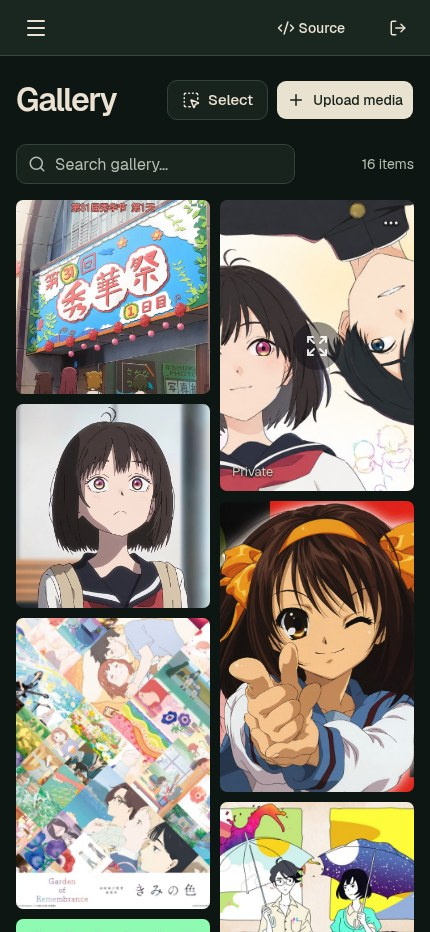
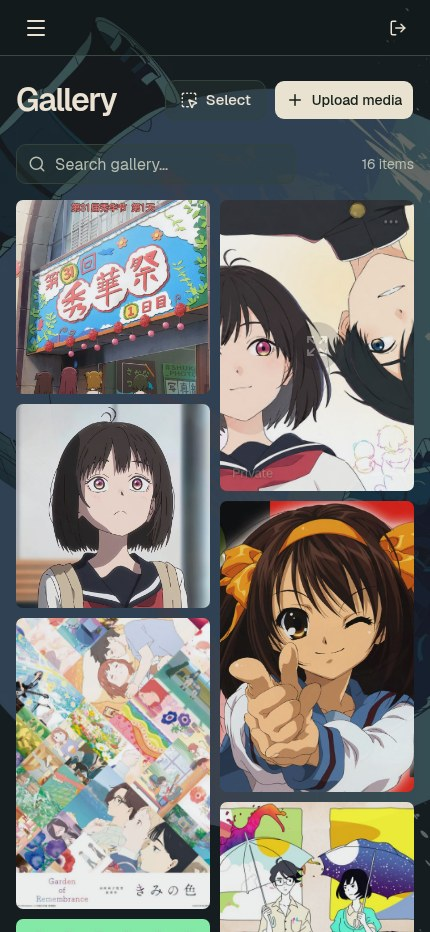
docs: focus on everyday features and measured memory usage

diff --git a/README.md b/README.md
@@ -1,65 +1,52 @@
 # Mori
 
-**A rich media library. A surprisingly small stack.**
+**Your media, beautifully organized. Surprisingly light on memory.**
 
-Mori is a lightweight, self-hosted home for images and videos. A Rust backend, a static SvelteKit interface, SQLite metadata, and your own Amazon S3 bucket—all behind one container.
+Mori gives your images and videos a home of their own. Browse your collection, organize it into albums, and share exactly what you choose—all through a clean, personal gallery.
 
-[Live site](https://media.laplacian.net) · [Container image](https://github.com/orgs/Cubeyond/packages/container/package/mori) · [AGPL-3.0-or-later](LICENSE)
+[Live site](https://media.laplacian.net) · [Get started](#deploy) · [License](LICENSE)
 
-![Mori Gallery: images and videos together in a compact masonry layout](assets/screenshots/gallery.jpg)
+![Mori Gallery with a custom background and a flowing image and video layout](assets/screenshots/gallery.jpg)
 
-## Made for your media
+## Features
 
-- **Images and videos, together.** A compact, responsive masonry gallery with search, quiet hover controls, and full-size previews that preserve the original aspect ratio.
-- **Share on your own domain.** Copy a direct media link or a video's iframe code. Album members use `/<album-slug>/<random-name>.<ext>`; standalone media uses `/file/<random-name>.<ext>`.
-- **Public when you choose.** Albums and individual media have independent public/private settings. Visitors see shared content; the homepage never lists your library.
-- **A real upload queue.** Thumbnail previews, add/remove files before uploading, concurrent multipart uploads, pause, resume, and cancel. Media parts travel directly from your browser to S3.
-- **Less busywork.** Select multiple items to move into an album, remove from an album, delete, or create an album and move them together.
-- **Your own atmosphere.** The forest-green Mori theme, Catppuccin and Tokyo Night, accent colors, and browser-local background preferences.
+- **One gallery for everything.** Keep images and videos together, search your collection, and browse comfortably on a desktop or phone.
+- **Share in seconds.** Copy a link to an image, video, or album. Want a video on another website? Its ready-to-copy embed code is a click away.
+- **Privacy you control.** Keep media and albums private, or make them available to anyone with the link. Your homepage never exposes your collection.
+- **Uploads at your pace.** Preview your selection, add or remove files, upload several at once, and pause, resume, or cancel along the way.
+- **Less organizing, more enjoying.** Select several files to move them between albums, remove them from an album, or delete them together.
+- **Smaller uploads, your choice.** Choose Balanced, Higher quality, or Keep originals. Supported files can be optimized before uploading; when that would not help, Mori keeps the original.
+- **A look that feels yours.** Choose Mori, Catppuccin, or Tokyo Night colors, add your own background, and adjust how much it shows through the gallery.
+- **A small appetite for memory.** Our live library of 16 media files used about **7 MB of server memory while idle** and **28 MB while browsing and opening images** in a short check on November 6, 2026. Usage varies with activity.
 
-Upload optimization runs in your browser, with **Balanced**, **Higher quality**, and **Keep originals** presets. Supported conversions aim to reduce size; unsupported or unhelpful conversions keep the original. The server does not transcode videos.
+## Make it yours
+
+Pick a background you love, tune its opacity, and give your thumbnails a little transparency. Appearance settings stay in your browser.
+
+![Mori appearance preferences with a custom background and adjustable gallery transparency](assets/screenshots/preferences.jpg)
 
 ## Take a closer look
 
-The lightbox supports wheel zoom, dragging, keyboard navigation, fullscreen, and downloads. Its neutral background keeps the focus on the image.
+Open an image to zoom, drag, and explore. Move through your collection with the keyboard, go fullscreen, or download a file to keep.
 
-![Mori lightbox with fit, zoom, navigation, download, and fullscreen controls](assets/screenshots/lightbox.jpg)
+![Mori full-size media preview with zoom, download, and fullscreen controls](assets/screenshots/lightbox.jpg)
 
 <details>
-<summary>Same library, smaller screen</summary>
+<summary>On your phone</summary>
 
 <p align="center">
-  <img src="assets/screenshots/gallery-mobile.jpg" width="360" alt="Mori Gallery on a phone, with a compact header and two-column masonry layout">
+  <img src="assets/screenshots/gallery-mobile.jpg" width="360" alt="Mori Gallery on a phone with a custom background">
 </p>
 
 </details>
 
-These are screenshots of the administrator view on [media.laplacian.net](https://media.laplacian.net), not mockups. The media shown is user-supplied; underlying artwork retains its creators' rights.
-
-## Small by design
-
-| Component                             | Role                                                             |
-| ------------------------------------- | ---------------------------------------------------------------- |
-| Rust + Axum                           | API, authorization, media streaming, and durable background jobs |
-| SvelteKit + TypeScript + Tailwind CSS | Static frontend; no Node.js server in production                 |
-| SQLite                                | Metadata, sessions, and job state in one persistent volume       |
-| Amazon S3                             | Media originals and previews; no local-media storage adapter     |
-
-The default Compose configuration gives Mori a **256 MiB memory budget** and runs it as a non-root user with a read-only filesystem. Thumbnail generation and upload optimization happen in the browser.
-
-Mori currently has one administrator. Browser preview and playback depend on the file format and codec; other allowed formats remain downloadable. Without CloudFront, Mori streams downloads from S3, so media delivery uses your server's bandwidth. CloudFront is optional.
-
-The HTTP API lives under `/v1/*`; its generated contract is available at `/v1/openapi.yml` and in [api/openapi.yml](api/openapi.yml).
-
 ## License
 
-Mori is licensed under [AGPL-3.0-or-later](LICENSE). Commercial use is allowed; modified versions offered over a network must provide corresponding source as required by the license. Each official image's **Source** link points to its exact public Git commit. Modified distributions can set `MORI_SOURCE_URL` to their corresponding source.
-
-Third-party code and assets retain their own licenses; see [NOTICE](NOTICE) and [dependency notices](licenses/README.md).
+Mori is open source under [AGPL-3.0-or-later](LICENSE). See [NOTICE](NOTICE) for licensing details and third-party notices.
 
 ## Deploy
 
-You need Docker with Compose, a **Linux x86-64** host, and a private Amazon S3 bucket. Production also needs an HTTPS reverse proxy. The public GHCR image requires no registry login, source checkout, or compilation on your server.
+Run Mori on your own Linux server with Docker Compose. You will need a private Amazon S3 bucket for your media and an HTTPS domain. Published images currently support 64-bit Intel/AMD servers. There is no need to download the source code or build the app yourself.
 
 ### 1. Get the configuration
 
@@ -104,11 +91,11 @@ For Caddy running in another container, attach that container to Mori's Docker n
 ### 3. Connect Amazon S3
 
 1. Create a private, general-purpose S3 bucket with **Block Public Access** enabled.
-2. Give a dedicated IAM identity access to Mori's objects using the [example policy](examples/s3/iam-policy.json). Replace `YOUR_BUCKET_NAME` with the complete bucket name, including any AWS account/region suffix. This example assumes S3-managed encryption; customer-managed KMS keys need additional KMS permissions.
+2. Create a dedicated AWS access key with the [example access policy](examples/s3/iam-policy.json). Replace `YOUR_BUCKET_NAME` with your complete bucket name.
 3. Apply the [upload CORS example](examples/s3/cors.json), replacing `https://media.example.com` with your exact `MORI_PUBLIC_URL` origin. See [AWS's CORS documentation](https://docs.aws.amazon.com/AmazonS3/latest/userguide/ManageCorsUsing.html).
 4. Log in to Mori and open **Settings → Storage**. Enter the bucket name, region, Access key ID, and Secret access key. Leave Session token empty for ordinary IAM user keys, and leave Distribution ID empty when not using CloudFront. Test the connection, then save.
 
-S3 credentials are stored encrypted in the persistent volume, rather than in Compose. AWS storage, request, and transfer charges are separate from hosting Mori. An [incomplete multipart upload lifecycle rule](https://docs.aws.amazon.com/AmazonS3/latest/userguide/mpuoverview.html) can clean up abandoned parts.
+Mori saves your S3 connection securely in its data volume. Your server and Amazon S3 usage are billed by their providers. CloudFront is optional. For AWS cleanup and encryption options, see the [S3 setup notes](examples/s3/README.md).
 
 ### Updates and backups
 
@@ -118,6 +105,6 @@ Pull and run the newest published image:
 docker compose up -d --pull always
 ```
 
-For a fixed version, set `MORI_IMAGE=ghcr.io/cubeyond/mori:sha-<full-commit-sha>` in `.env`. Keep the named `metadata` volume when updating, and back up both the volume and your S3 objects. The volume contains SQLite metadata and `storage.key`; both are needed to restore the saved S3 configuration.
+Keep the `metadata` data volume when updating. Back up both this volume and your S3 bucket: Mori needs its saved library information and encryption key to restore your connection.
 
-Optional environment settings in [.env.example](.env.example) include separate video and image upload limits. Defaults are **1 GB per video** and **100 MiB per image**. Allowed extensions can be configured through `MORI_VIDEO_EXTENSIONS` and `MORI_IMAGE_EXTENSIONS`.
+The default upload limits are **1 GB per video** and **100 MiB per image**. You can change them in your `.env` file. Mori currently supports a single administrator; images and videos are stored in Amazon S3.

diff --git a/examples/s3/README.md b/examples/s3/README.md
@@ -1,0 +1,9 @@
+# S3 setup notes
+
+The [example access policy](iam-policy.json) grants read, write, delete, and multipart-upload permissions only under Mori's `private/` and `public/` object prefixes. Replace `YOUR_BUCKET_NAME` with the complete bucket name. Keep Block Public Access enabled.
+
+The policy assumes S3-managed encryption. If the bucket uses a customer-managed KMS key, grant the corresponding KMS permissions as described in [AWS's multipart upload documentation](https://docs.aws.amazon.com/AmazonS3/latest/userguide/mpuoverview.html#multipart-upload-and-permissions).
+
+The [CORS example](cors.json) permits browser uploads from one origin. Replace `https://media.example.com` with the exact origin configured as `MORI_PUBLIC_URL`; keep the scheme and port consistent. See [AWS's CORS documentation](https://docs.aws.amazon.com/AmazonS3/latest/userguide/ManageCorsUsing.html).
+
+An S3 lifecycle rule can abort abandoned multipart uploads without expiring completed media. See [AWS's multipart upload documentation](https://docs.aws.amazon.com/AmazonS3/latest/userguide/mpuoverview.html).
